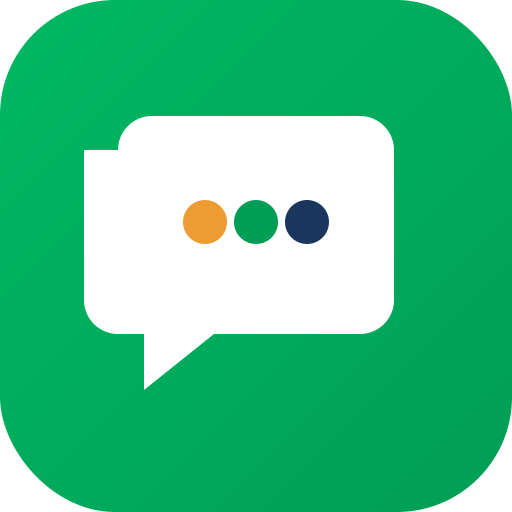
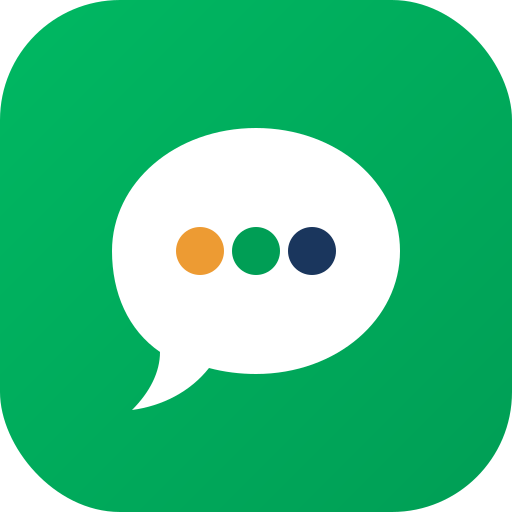
Add files via upload

diff --git a/index.html b/index.html
@@ -64,7 +64,10 @@
   .hide{display:none;}
   .muted{color:#98a29a;font-size:13px;text-align:center;padding:14px;}
   footer{text-align:center;font-size:11.5px;color:#aab2ab;margin-top:26px;line-height:1.7;}
-  .admin-link{color:#c3cbc4;cursor:pointer;text-decoration:underline;}
+  .admin-link{display:inline-block;margin-top:14px;color:#7c867e;font-size:12.5px;font-weight:600;cursor:pointer;text-decoration:underline;}
+  .pin-in{width:100%;border:1.5px solid var(--line);border-radius:12px;padding:13px 14px;font-size:22px;font-family:inherit;color:var(--navy);text-align:center;letter-spacing:8px;font-weight:700;}
+  .pin-in:focus{outline:none;border-color:var(--green);}
+  .hint{font-size:12px;color:#98a29a;margin-top:6px;}
 
   /* 관리자 화면 */
   .adm-head{background:var(--navy);color:#fff;padding:18px;text-align:center;border-radius:0 0 20px 20px;}
@@ -106,10 +109,10 @@
   <header>
     <div class="logo">
       <svg viewBox="0 0 48 48" fill="none">
-        <path d="M8 12a4 4 0 014-4h24a4 4 0 014 4v18a4 4 0 01-4 4H20l-9 7v-7h-1a4 4 0 01-4-4V12z" fill="#fff"/>
-        <circle cx="18" cy="21" r="2.4" fill="#ED9B33"/>
-        <circle cx="24" cy="21" r="2.4" fill="#009e55"/>
-        <circle cx="30" cy="21" r="2.4" fill="#1A365D"/>
+        <path d="M24 10c7.6 0 13.5 5.2 13.5 11.6 0 6.4-5.9 11.6-13.5 11.6-1.5 0-3-.2-4.4-.6-1.8 2.3-4.4 3.6-7.2 4 1.6-1.7 2.6-3.6 2.6-5.5-3-2.1-4.5-5.6-4.5-9.5C10.5 15.2 16.4 10 24 10z" fill="#fff"/>
+        <circle cx="18.5" cy="21.6" r="2.4" fill="#ED9B33"/>
+        <circle cx="24" cy="21.6" r="2.4" fill="#009e55"/>
+        <circle cx="29.5" cy="21.6" r="2.4" fill="#1A365D"/>
       </svg>
       <h1>플리츠미 톡톡</h1>
     </div>
@@ -147,6 +150,9 @@
           <input type="checkbox" id="consent">
           <span>필요 시 담당 관리자가 <b>제 동의를 받아</b> 내용을 관련자에게 전달·공개하는 것에 동의합니다. (미체크 시 끝까지 익명·비공개 처리)</span>
         </div>
+        <label style="margin-top:20px;">답변 확인용 비밀번호 (숫자 6자리 직접 정하기)</label>
+        <input type="text" id="mypin" class="pin-in" inputmode="numeric" maxlength="6" placeholder="● ● ● ● ● ●">
+        <p class="hint">나중에 이 번호로 답변을 확인합니다. 잊지 않을 숫자로 정해주세요. (생일·전화번호처럼 쉽게 짐작되는 번호는 피해주세요.)</p>
         <button class="btn" onclick="submitPost()">안전하게 보내기</button>
       </div>
 
@@ -161,7 +167,7 @@
           <div class="lbl">나의 비밀번호</div>
           <div class="code" id="myCode">000000</div>
         </div>
-        <div class="warn">⚠ 이 번호를 꼭 저장(캡처)해 두세요. 이 번호로만 답변을 확인할 수 있고, 익명 보호를 위해 다시 알려드릴 수 없습니다.</div>
+        <div class="warn">⚠ 방금 직접 정하신 이 번호로만 답변을 확인할 수 있어요. 꼭 기억해두세요. (익명 보호를 위해 다시 알려드릴 수 없습니다.)</div>
         <button class="btn gold" onclick="location.reload()">확인</button>
       </div>
     </div>
@@ -180,7 +186,7 @@
     <footer>
       플리츠미 톡톡 · 해피미 케어센터<br>
       상담 문의 119@pleatsme.com · 모든 상담은 비밀이 보장됩니다.<br>
-      <span class="admin-link" onclick="openAdmin()">관리자</span>
+      <span class="admin-link" onclick="openAdmin()">🔒 관리자 로그인</span>
     </footer>
   </div>
 </div>
@@ -270,18 +276,24 @@ async function makeCode(){
 let sending=false;
 async function submitPost(){
   const content=document.getElementById('content').value.trim();
+  const pin=document.getElementById('mypin').value.trim();
   if(!cat){ alert('먼저 이야기 종류를 선택해주세요.'); return; }
   if(content.length<5){ alert('내용을 조금만 더 적어주세요.'); return; }
+  if(!/^\d{6}$/.test(pin)){ alert('답변 확인용 비밀번호를 숫자 6자리로 정해주세요.'); return; }
   if(sending) return; sending=true;
   try{
-    const code=await makeCode();
-    await db.ref('posts/'+code).set({
+    const exist=await db.ref('posts/'+pin).once('value');
+    if(exist.exists()){
+      alert('이미 사용 중인 번호예요. 다른 6자리 숫자로 정해주세요.');
+      sending=false; return;
+    }
+    await db.ref('posts/'+pin).set({
       category:cat,content:content,
       urgent:document.getElementById('urgent').checked,
       consent:document.getElementById('consent').checked,
       status:'접수',reply:'',createdAt:Date.now()
     });
-    document.getElementById('myCode').textContent=code;
+    document.getElementById('myCode').textContent=pin;
     document.getElementById('formCard').classList.add('hide');
     document.getElementById('doneCard').classList.remove('hide');
     window.scrollTo(0,0);
